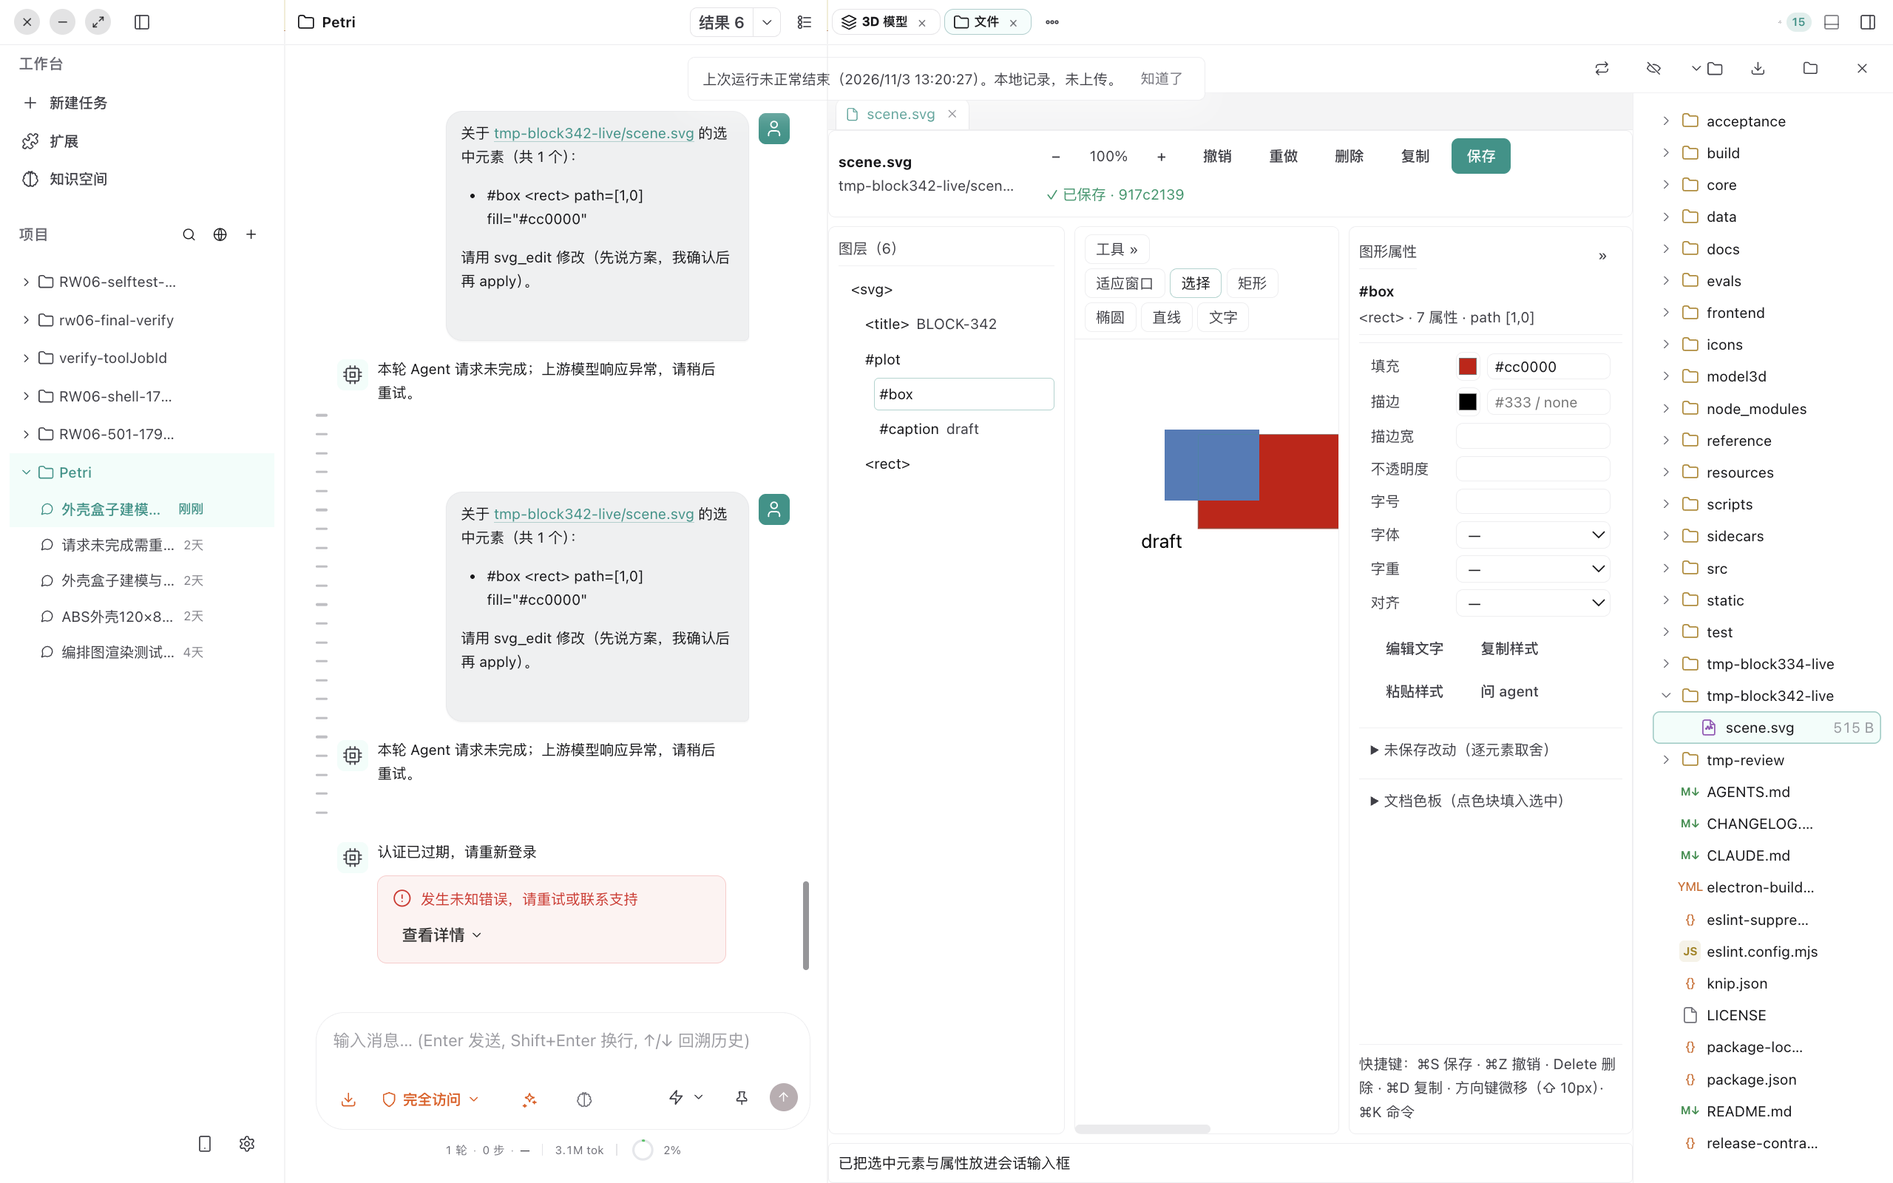
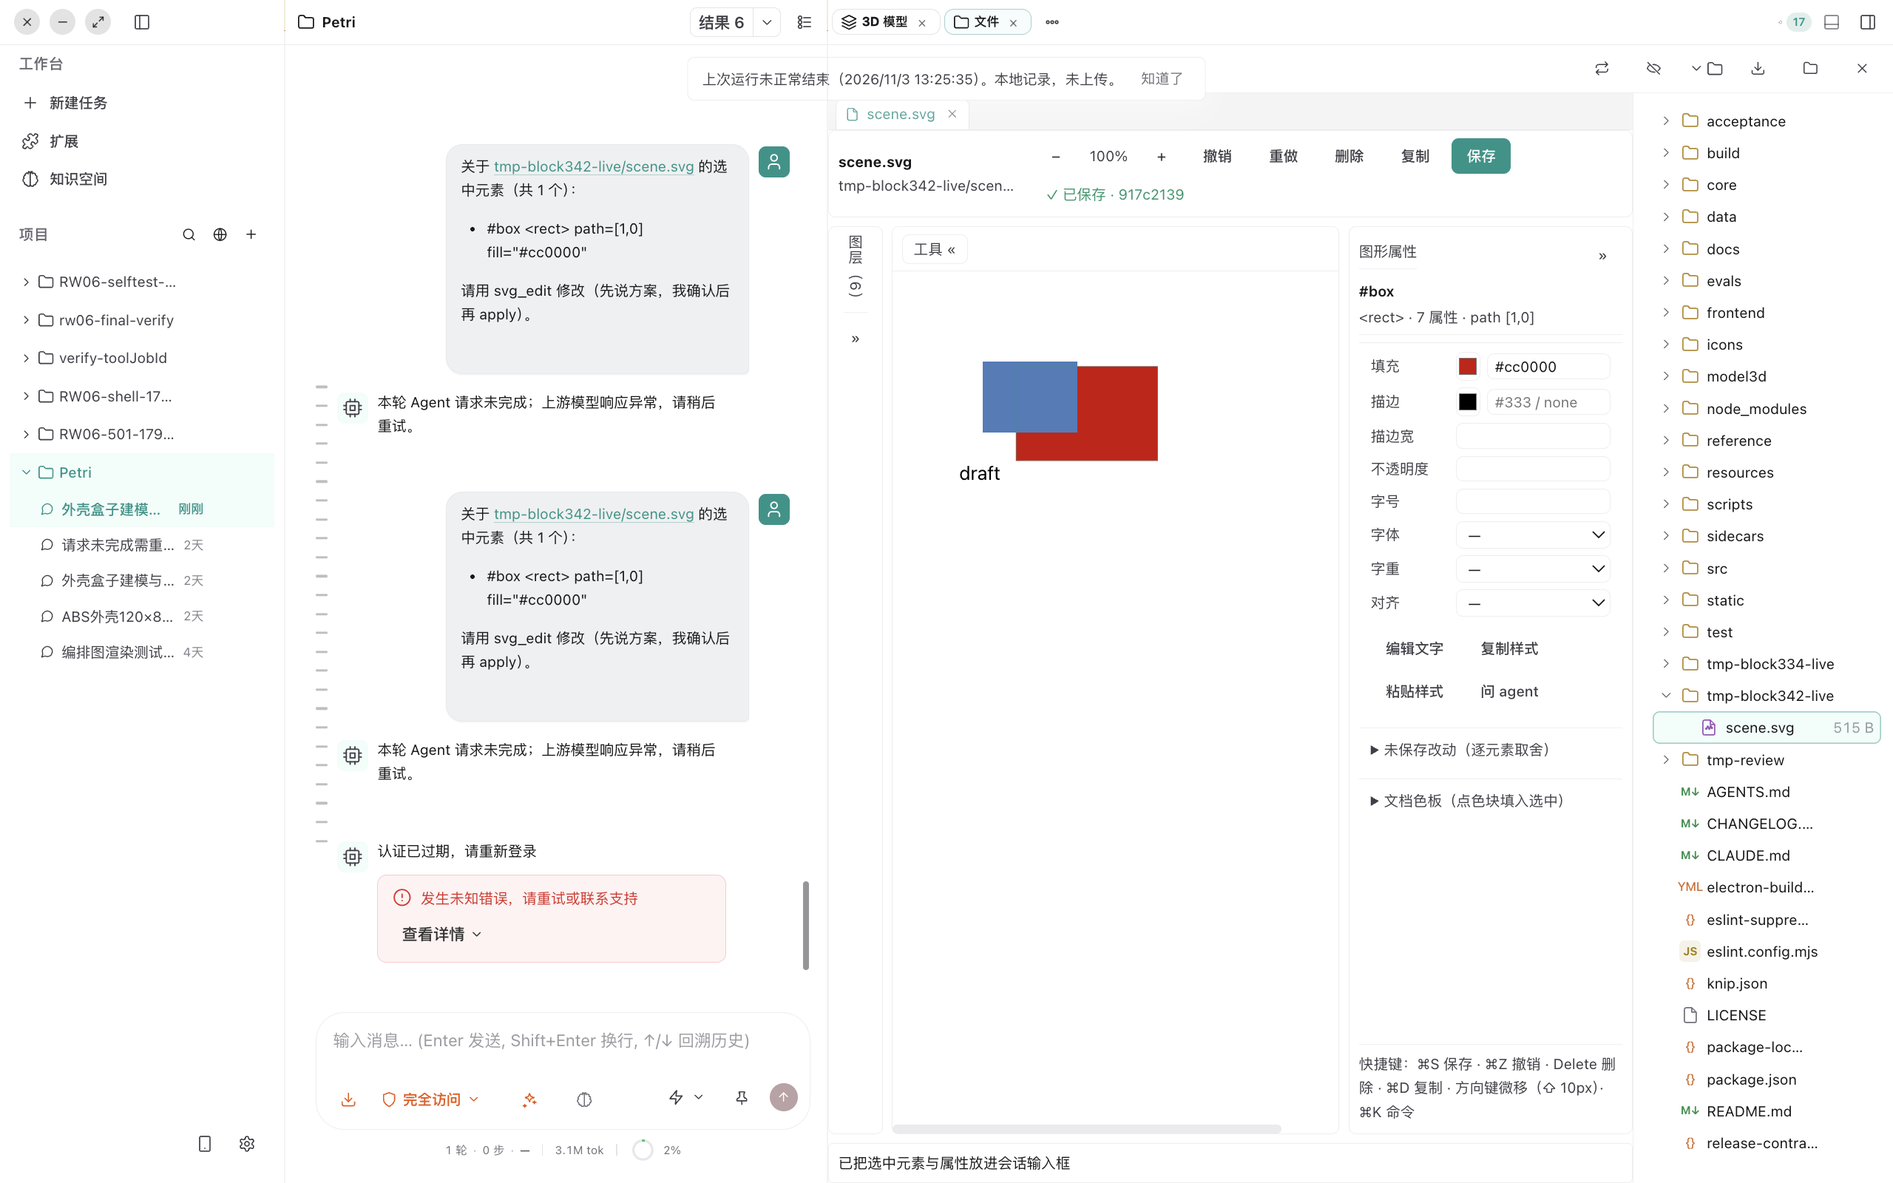
fix(block-342): 折叠默认全收起（含图层栏）+ 选中自动展开属性栏
用户裁决：默认就收起，不要占空间——工具栏只剩「工具 «」、图层栏/图形属性各收 46px 竖排标题、色板与改动 details 收起，打开文件即最大画布

按需展开：点 » 恢复 200/240px；选中元素时属性栏自动展开；grid 列宽按展开态组合切换（46|1fr|46 ↔ 200|1fr|240）

门禁：契约 26/26（脱敏提示测试适配图层默认收起）+ lint 0 error + 实机 28/28（V2d 三处 data-open=0 + 展开按钮在场）

diff --git a/frontend/src/components/svg-editor/SvgEditorViewer.tsx b/frontend/src/components/svg-editor/SvgEditorViewer.tsx
@@ -198,8 +198,10 @@ export function SvgEditorViewer({ projectId, filePath, name, active = true }: Sv
   const [baseMarkup, setBaseMarkup] = React.useState('');
   const [changeLog, setChangeLog] = React.useState<ElementChange[] | null>(null);
   // 交互：右栏空间有限 —— 分区折叠（默认只开「图形属性」），整栏可收，工具栏可收
-  const [sections, setSections] = React.useState({ props: true, palette: false, changes: false, tools: true });
-  const [inspectorOpen, setInspectorOpen] = React.useState(true);
+  // 默认全收起：先给画布空间，用户点开才占用（用户裁决：默认收起而非占位）
+  const [sections, setSections] = React.useState({ props: false, palette: false, changes: false, tools: false });
+  const [inspectorOpen, setInspectorOpen] = React.useState(false);
+  const [layersOpen, setLayersOpen] = React.useState(false);
   const toggleSection = React.useCallback((key: keyof typeof sections) => {
     setSections((prev) => ({ ...prev, [key]: !prev[key] }));
   }, []);
@@ -276,6 +278,8 @@ export function SvgEditorViewer({ projectId, filePath, name, active = true }: Sv
   /** 选中变化：同时刷新属性面板与文档色板（都在事件里读活视图，渲染期不读 ref/DOM）。 */
   const syncSelection = React.useCallback((next: Set<string>) => {
     setSelected(next);
+    // 默认全收起省空间；用户一旦选中元素（明确要改它）才自动展开属性栏
+    if (next.size > 0) setInspectorOpen(true);
     const root = rootEl();
     const first = next.size > 0 ? Array.from(next)[0] : null;
     const el = root && first !== null ? findByPath(root, decodePath(first)) : null;
@@ -696,10 +700,21 @@ export function SvgEditorViewer({ projectId, filePath, name, active = true }: Sv
       ) : null}
 
       {state.status === 'ready' ? (
-        <div className={styles.body}>
-          <aside className={styles.layers} data-testid="svg-editor-layers">
-            <div className={styles.panelTitle}>图层（{state.inspect.total}）</div>
-            <ul className={styles.layerList}>
+        <div className={styles.body} data-layers={layersOpen ? '1' : '0'} data-inspector={inspectorOpen ? '1' : '0'}>
+          <aside className={styles.layers} data-testid="svg-editor-layers" data-open={layersOpen ? '1' : '0'}>
+            <div className={styles.layersHead}>
+              <span className={styles.panelTitle}>图层（{state.inspect.total}）</span>
+              <button
+                type="button"
+                className={button.ghost}
+                data-action={layersOpen ? 'collapse-layers' : 'expand-layers'}
+                title={layersOpen ? '收起图层栏' : '展开图层栏'}
+                onClick={() => setLayersOpen((prev) => !prev)}
+              >
+                {layersOpen ? '«' : '»'}
+              </button>
+            </div>
+            <ul className={styles.layerList} data-open={layersOpen ? '1' : '0'}>
               {layerRows.map((el) => {
                 const key = pathKey(el.path);
                 return (
@@ -718,7 +733,7 @@ export function SvgEditorViewer({ projectId, filePath, name, active = true }: Sv
                 );
               })}
             </ul>
-            {state.removed > 0 ? (
+            {layersOpen && state.removed > 0 ? (
               <div className={styles.warn} data-testid="svg-editor-sanitized">
                 视图已脱敏 {state.removed} 处（script/事件属性/危险链接）；真值未被删除。
               </div>

diff --git a/frontend/src/components/svg-editor/SvgEditorViewer.test.tsx b/frontend/src/components/svg-editor/SvgEditorViewer.test.tsx
@@ -99,6 +99,11 @@ describe('BLOCK-342 W1 SvgEditorViewer', () => {
     stubFetch('<svg xmlns="http://www.w3.org/2000/svg"><script>alert(1)</script><rect id="r" onclick="x()"/></svg>');
     render(<SvgEditorViewer projectId="p1" filePath="dirty.svg" />);
 
+    // 图层栏（含脱敏提示）默认收起：先展开再断言
+    await waitFor(() => expect(screen.getByTestId('svg-editor-canvas')).toBeTruthy());
+    const expandLayers = document.querySelector('[data-action="expand-layers"]') as HTMLButtonElement | null;
+    expect(expandLayers).toBeTruthy();
+    expandLayers?.click();
     await waitFor(() => expect(screen.getByTestId('svg-editor-sanitized')).toBeTruthy());
     expect(screen.getByTestId('svg-editor-sanitized').textContent).toContain('视图已脱敏');
     expect(screen.getByTestId('svg-editor-canvas').innerHTML.toLowerCase()).not.toContain('<script');

diff --git a/frontend/src/components/svg-editor/SvgEditorViewer.module.css b/frontend/src/components/svg-editor/SvgEditorViewer.module.css
@@ -494,3 +494,41 @@
 .toolGroup[data-open='0'] {
   display: none;
 }
+
+/* 折叠列宽：null 默认全收起（图层 44 / 画布 / 属性 44），展开恢复 200/240 */
+.body[data-layers='0'] {
+  grid-template-columns: 46px minmax(0, 1fr) 240px;
+}
+
+.body[data-inspector='0'] {
+  grid-template-columns: 200px minmax(0, 1fr) 46px;
+}
+
+.body[data-layers='0'][data-inspector='0'] {
+  grid-template-columns: 46px minmax(0, 1fr) 46px;
+}
+
+.layers[data-open='0'],
+.inspector[data-open='0'] {
+  padding: 6px 4px;
+  align-items: center;
+  overflow: hidden;
+}
+
+.layers[data-open='0'] .panelTitle,
+.inspector[data-open='0'] .panelTitle {
+  writing-mode: vertical-rl;
+  letter-spacing: 1px;
+  white-space: nowrap;
+}
+
+.layerList[data-open='0'] {
+  display: none;
+}
+
+.layersHead {
+  display: flex;
+  flex-direction: column;
+  align-items: center;
+  gap: 6px;
+}

diff --git a/docs/AUDIT-LOG.md b/docs/AUDIT-LOG.md
@@ -1,4 +1,5 @@
 # 审计广播台 (AUDIT-LOG)
+最后更新：2026-11-03（✅ **BLOCK-342 折叠默认态修正（用户第二轮裁决）+ 图层栏可折叠（实机 28/28）**：默认**全收起**——工具栏只剩「工具 «」、图层栏与图形属性各收成 46px 竖排标题条（writing-mode）、色板/改动 details 收起，打开文件即最大画布；点 `»` 恢复 200/240px，**选中元素时属性栏自动展开**；grid 列宽按展开态组合切换。实机 `V2d` 断言 layers/inspector/toolGroup 三处 `data-open=0` + 展开按钮在场，28/28 allPass；契约 26/26 + lint 0 error。UI-665 已更新。G0 开发期常态 · 不外推 packaged/Provider/GA。）
 最后更新：2026-11-03（✅ **BLOCK-342 交互设计批：分区折叠 + 预览/确认状态区分（实机 28/28）**：工具栏「工具 »」可收；「图形属性」默认展开、右栏 `»` 整栏收起（画布变宽）；「文档色板」「未保存改动」默认折叠（details）。状态条三态=黄「● 未保存 N 项改动 · 实时预览中，⌘S 确认写盘」/灰「保存中…」/绿「✓ 已保存 · sha」——实时预览只改活视图，保存才提交（before-hash 冲突检测），避免未确认堆积。契约 26/26 + theme 17/17 + 实机 28/28（V2d/V9b3/V9d）；UI-665 verified。G0 开发期常态 · 不外推 packaged/Provider/GA。）
 最后更新：2026-11-03（✅ **BLOCK-342 用户核查反馈批：即时渲染真缺陷已修 + 能力扩容（实机 25/25）**：①**根因**=`commit()` 只 setMarkup 不落活视图，而 nextMarkup 取自未应用的 DOM ⇒ 改色/绘制要保存后才可见（拖拽即时是因为 Canvas 自己改了 DOM）；修法=commit 先 `applyOpsToDom`（op 全族）再序列化，实机 `V9b2_fill_live_rendered` PASS。②扩容=多选对齐 6 种（只改 transform）+ 字体下拉 + 适应窗口。契约 26/26 + tsc 0 + lint 0 + 实机 25/25；UI-664 verified。G0 开发期常态 · 不外推 packaged/Provider/GA。）
 最后更新：2026-11-03（🟡 **BLOCK-342 W4 逐元素取舍：第二轮尝试仍空清单（如实收口，UI-663 保持 in_progress）**：把基线从「加载快照」改为「现读磁盘（cache:no-store）+ 重新脱敏」并对比视图序列化——实机仍空 → 定位于 `diffElements(磁盘文本, 视图序列化)` 的**输入可比性**（非基线来源）。两轮实机腿均已从 flow 回退（未验不计入通过），主链 24/24 保持绿。**下一步方向已定**=清单改由 `pendingOps` 生成（op 列表本就是语义 diff，避开反序列化），撤销=移除该组 op 后从磁盘重建视图再按序应用剩余。G0 开发期常态 · 不外推 packaged/Provider/GA。）
@@ -6,7 +7,6 @@
 最后更新：2026-11-03（✅ **BLOCK-342 W2-W4 交付切片完成（整链实机 24/24 allPass）**：W2 属性面板 8 类/文档色板/批量套样式/样式复制粘贴/多行 tspan 行内文字；W3 绘制矩形·椭圆·直线·文字（拖拽 → 白名单 insert）；W4 选区 → 唯一 `copilotAsk` 通道（结构化引用含 path/属性，指路 svg_edit 先说方案）。**实机抓真第二处真缺陷并修**=绘制坐标用 `getScreenCTM()` 在离屏窗口返回 null → 绘制静默失效，改 `boundingRect + viewBox` 比例换算。证据 `acceptance/block-342/`（24/24 + png，实例与样本跑完即清理）。UI-662 verified。**reopen 逐项留档**=选区浮动条/渐变/路径节点·钢笔/图片嵌入/Inkscape 协处理器/提案幽灵与逐元素接受/版本对比·历史面板/渲染回验（plan §8）。G0 开发期常态 · 不外推 packaged/Provider/GA。）
 最后更新：2026-11-03（✅ **BLOCK-342 W1 COMPLETED（P1-P5 全绿；实机 15/15）**：P4 隔离栈离屏实机 `block342-svg-editor-live` **15/15 allPass**（挂载/点选/拖拽 translate(48 24)/保存落盘 sha 变化+局部性/重开零改动零 diff/旧 sha 提案 409 `svg_hash_mismatch`），证据 `acceptance/block-342/`（JSON+png，跑完即终止实例、样本自动清理）；**实机抓真一处真缺陷已修**=文件加载白名单只认 text/csv/json/markdown，`svg-editor` 漏判致 `status='unsupported'` 落二进制卡、编辑器结构性不可达。UI-661 **verified**（dev Electron 边界内）。母计划仍 active（W2/W3/W4 待启动）。此前的 P1-P3 记录：：①span 引擎 `helpers/svg-ops.js` 契约 **14/14**（首轮 13 红→绿），终审根修四处真缺陷=setAttrRaw 替换区间 off-by-one（闭引号重复致改写后不可解析）/ 容器 `textOnly` 未置 false（set_text 会静默吞子结构）/ 节点缺 path·id / insert 安全校验晚于形状；另加固 script·style raw-text 跳过 + sanitize 两级剥离。②工具面 `svg_inspect`/`svg_edit` 契约 **8/8**（propose/apply、`before_sha_required`、`svg_hash_mismatch` 不覆盖人的修正、零改动不写盘、审计快照 `.petri/svg-revisions/`）+ REST `POST /api/svg/{inspect,edit}`（与 agent 同一套实现）；工具计数 112→**114**（四处 pin + fixture + model-surface 有意增长留痕）。③编辑器前端（画布/选择/拖拽/图层树/撤销/保存/Cmd+K）+ viewerRegistry `svg-editor` 分派（plot svg 仍图片）+ WorkspaceFilePreview 挂载；前端定向 57/57 + theme 17/17 + tsc 0 + lint 0 error。**顺带清存量**=model-surface `--force` 契约漂移（注释声明未实现）+ 前端动词表缺 read_video/godot×2/blend_ops 四条（HEAD 即红）。UI-661 in_progress（实机未跑不冒 verified）。**closeout 十三门 + skills:check 报级全 PASS**（`ca535f18` 主体；收口抓真三处已修：types 的 mock 泛型 / knip 的 11 处死代码保留面 / fixture 与前端动词表脱节）。G0 开发期常态 · 不外推 packaged/Provider/GA。）
 最后更新：2026-11-03（🔵 **BLOCK-342 SVG 编辑器启动登记（active；用户裁决「更丝滑的体验 路线A」→「BLOCK-341 应该已经收口了 继续」=发令，对标 340「继续推进」先例；341 已当日收口 completed）**：受治理 SVG 编辑器母计划 W1-W4 波次串行——人与 agent 共用同一套操作词汇表改同一份单真值文件。W1 执行范围=span 改写引擎（零操作零 diff/改动局部性/hash 冲突 `svg_hash_mismatch`/安全校验/脱敏，零新依赖，子 Agent 委派实现主 Agent 终审）+ `svg_edit`/`svg_inspect` 工具（白名单 op/propose-apply/修订快照）+ 编辑器内核（画布/选择/变换吸附/图层树/撤销/快捷键，viewerRegistry 登记）+ 隔离栈离屏实机。红线=零新依赖/不建第二真值/不复刻 Inkscape GUI/位图像素编辑另立 reopen；W2-W4 启动时在本 plan 内细化。W1 分 P 阶段多会话推进。G0 开发期常态 · 不外推 packaged/Provider/GA。）
-最后更新：2026-11-03（✅ **BLOCK-341 引擎桥整包 COMPLETED（P0-P6 立项当日收口）**：godot-provider 探针（4.7.1 双安装路径发现；缺席诚实）；godot_run（--write-movie PNG 序列+--quit-after+manifest 落 .petri/godot-runs/；**探针抓真 headless 无渲染→默认带显示驱动**）；godot_scene_apply（propose/apply 白名单三操作+sha+语义 diff+stale 防覆盖）；P4 闭环样例实机 13/13（真 Godot 30 帧+30 截图+scene_apply 全链）；P5 Blender 扩档 model3d_blend_ops（inspect/transform 语义自检 loc=[2,0,0]/render 真出图；.blend=外部资产不破 322）。契约 14/14+工具计数 109→112+model-surface +2230 留痕。抓真三处：headless 无渲染/-vsync 后代 -fps_mode/--python-expr 不自动保存。队列：全部 planned 包已清。G0 开发期常态 · 不外推 packaged/Provider/GA。）
 
 
 

diff --git a/docs/block-342-svg-editor-plan.md b/docs/block-342-svg-editor-plan.md
@@ -117,11 +117,11 @@ W1 收口门禁清单（收口时逐项对账）：
 
 ## 11. 交互设计批（2026-11-03 用户要求）：分区折叠 + 预览/确认状态区分
 
-**空间策略（右栏有限，先保画布）**：
-- **工具栏**：默认展开；点「工具 »」收成单按钮（工具组 `data-open=0` 隐藏，含画笔/形状/适应窗口），再点展开。
-- **图形属性**：默认展开（选中后最常用）；右栏头部 `»` 可**整栏收起**（只留标题条，画布变宽），`«` 还原。
-- **文档色板**、**未保存改动**：**默认折叠**（原生 `<details>`，点摘要展开）——低频且体积大，不抢画布空间。
-- 布局：三栏（图层/画布/属性）不变；折叠只减内容高度/宽度，不改变画布缩放与选中态。
+**空间策略（用户裁决 2026-11-03：「默认应该就收起来，而不是窗口不动占空间」+「图层栏也要能折叠」）**：
+- **默认全收起**：工具栏（只留「工具 «」）、**图层栏**（46px 竖排标题「图层（N）」+ `»`）、**图形属性**（46px 竖排标题 + `»`）、文档色板、未保存改动（details）—— 打开文件即最大画布。
+- **按需占用**：点 `»` 展开对应栏（图层 200px / 属性 240px）；**选中元素时属性栏自动展开**（用户已明确要改它），点空白不反复收缩。
+- **文档色板 / 未保存改动**：`<details>` 默认收起，点摘要展开。
+- 布局：grid 三列按展开态切换（`46px | 1fr | 46px` ↔ `200px | 1fr | 240px` 的组合），收起态标题竖排（writing-mode）保证 46px 可读；折叠不改变画布缩放与选中态。
 
 **颜色等改动的生效机制（实时预览 ≠ 已确认）**：
 1. **实时预览**：任何属性/形状/文字改动立即落到活视图（`commit` 内 `applyOpsToDom`），元素视觉即刻变化，但**磁盘文件不变**、`pendingOps` 累加。

diff --git a/docs/ui-productization-audit.md b/docs/ui-productization-audit.md
@@ -2,7 +2,7 @@
 
 ## UI-665: SVG 编辑器分区折叠 + 实时预览/确认状态区分（BLOCK-342 交互设计批；2026-11-03 **verified（dev Electron 边界内；实机 28/28 allPass）**）
 
-- **折叠设计**：工具栏默认展开、点「工具 »」收成单按钮；「图形属性」默认展开、右栏头部 `»` 整栏收起（画布变宽）/`«` 还原；「文档色板」「未保存改动」**默认折叠**（原生 details 摘要展开）。折叠只改内容可见性，不改画布缩放与选中态。
+- **折叠设计（用户裁决：默认就收起，别占空间）**：**默认全收起**——工具栏只留「工具 «」、图层栏收成 46px 竖排标题「图层（N）」、图形属性同款 46px 竖排、文档色板/未保存改动用 `<details>` 收起；打开文件即最大画布。按需展开：点 `»` 恢复 200px/240px 列宽；**选中元素时属性栏自动展开**。grid 列宽随展开态切换，收起态标题竖排保证可读；不改画布缩放与选中态。
 - **状态区分**：头部状态条三态——黄 `● 未保存 N 项改动 · 实时预览中，⌘S 确认写盘` / 灰 `保存中…` / 绿 `✓ 已保存 · <sha 前 8 位>`；实时预览只改活视图，磁盘不变；保存才提交（before-hash 冲突检测），成功后清零并转 saved。
 - **为什么这样设计**：右栏空间有限，把「最常用（属性）+ 画布」默认可见，低频大体积区块收起；状态条把「我改的东西还没落盘」变成可见事实，避免用户误以为已生效。
 - **验证**：契约 26/26 + theme 17/17（状态色用 `--petri-status-warning-fg/border`、`--petri-status-success-fg` 语义 token；收起按钮复用 `button.ghost` 变体，不新增按钮类）；实机 **28/28**（V2d/V9b3/V9d）。

diff --git a/docs/archive/checkpoints/audit-log-through-2026-11-03.md b/docs/archive/checkpoints/audit-log-through-2026-11-03.md
@@ -30,3 +30,6 @@
 
 <!-- audit-log-compact.mjs 追加 @ 2026-11-03T05:26:09.442Z -->
 最后更新：2026-11-03（🔵 **BLOCK-341 引擎桥启动登记（active；用户「确认 一次性搞完 不用再问」=发令）**：Godot 4.7.1 已在本机（homebrew+App 双份）；P0 形态裁决按 plan 预答钉死、P5 边界按预答执行（.blend=外部资产不破 322 单真值）；执行序 P1 探针→P2 godot_run→P3 scene_apply→P4 闭环样例→P5 Blender 扩档→P6 契约+实机；截图序列走 340 帧→vision 管线。目标当日收口。G0 开发期常态 · 不外推 packaged/Provider/GA。）
+
+<!-- audit-log-compact.mjs 追加 @ 2026-11-03T05:30:07.286Z -->
+最后更新：2026-11-03（✅ **BLOCK-341 引擎桥整包 COMPLETED（P0-P6 立项当日收口）**：godot-provider 探针（4.7.1 双安装路径发现；缺席诚实）；godot_run（--write-movie PNG 序列+--quit-after+manifest 落 .petri/godot-runs/；**探针抓真 headless 无渲染→默认带显示驱动**）；godot_scene_apply（propose/apply 白名单三操作+sha+语义 diff+stale 防覆盖）；P4 闭环样例实机 13/13（真 Godot 30 帧+30 截图+scene_apply 全链）；P5 Blender 扩档 model3d_blend_ops（inspect/transform 语义自检 loc=[2,0,0]/render 真出图；.blend=外部资产不破 322）。契约 14/14+工具计数 109→112+model-surface +2230 留痕。抓真三处：headless 无渲染/-vsync 后代 -fps_mode/--python-expr 不自动保存。队列：全部 planned 包已清。G0 开发期常态 · 不外推 packaged/Provider/GA。）
